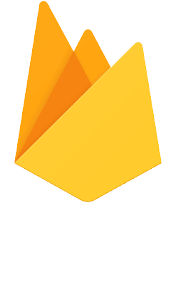
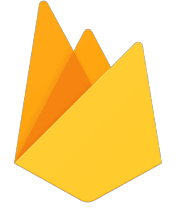
skills edited, project added

Changed region(s): [[0.0852, 0.0273, 0.9375, 0.9273], [0.2273, 0.0, 0.2841, 0.0273]]

diff --git a/src/Components/Skillicons/Skillicons.jsx b/src/Components/Skillicons/Skillicons.jsx
@@ -1,101 +1,116 @@
-import React from 'react'
+import React from "react";
 import html from "../../images/html.svg";
 import css from "../../images/css.svg";
 import js from "../../images/JS.svg";
 import boot from "../../images/bootstrap.svg";
 import rct from "../../images/react.svg";
-import mongo from "../../images/mongodb.svg";
-import npm from "../../images/npm.png";
+import mongo from "../../images/mong.png";
 import node from "../../images/node.jpg";
 import post from "../../images/postman.png";
 import sql from "../../images/sql.png";
-import github from "../../images/github.png"
-import redux from "../../images/redux.svg"
-import firebase from "../../images/firebase.png"
-import JWT from "../../images/JWT.png"
-import nxt from "../../images/nxt.png"
-import tailwind from "../../images/tailwindcss.png"
-import socket from "../../images/socketIO.png"
+import github from "../../images/github.png";
+import redux from "../../images/reduxy-removebg-preview.png";
+import firebase from "../../images/firebase-removebg-preview.png";
+import JWT from "../../images/JWT.png";
+import nxt from "../../images/nxt.png";
+import tailwind from "../../images/tailwindcss.png";
+import socket from "../../images/socketIO.png";
 
 function Skillicons() {
   return (
-    <div id="skills" className='col-lg-12'>
+    <div id="skills" className="col-lg-12">
       <h4 className="Tech">Technologies and Tools :</h4>
-      <div id='row1' >
-        <div className="gridicon">
-          <img src={html} alt="" style={{width:"75px"}}/>
-          <span>HTML</span>
+      <div id="row1" className="row">
+        <div className="col-lg-6 row6">
+          <div className="gridicon">
+            <img src={html} alt="" />
+            <span>HTML</span>
+          </div>
+          <div className="gridicon">
+            <img src={js} alt="" id="jsicon" />
+            <span>Java Script</span>
+          </div>
         </div>
-        <div className="gridicon">
-          <img src={js} alt="" id="jsicon" style={{width:"75px"}}/>
-          <span>Java Script</span>
+        <div className="col-lg-6 row6">
+          <div className="gridicon">
+            <img src={css} alt="" id="cssicon" />
+            <span>CSS</span>
+          </div>
+          <div className="gridicon">
+            <img src={boot} alt="" id="bootstrapicon" />
+            <span>BootStrap</span>
+          </div>
         </div>
-        <div className="gridicon">
-          <img src={css} alt="" id="cssicon" style={{width:"75px"}}/>
-          <span>CSS</span>
+
+        <div className="col-lg-6 row6">
+          <div className=" gridicon">
+            <img src={rct} alt="" />
+            <span>React</span>
+          </div>
+          <div className=" gridicon">
+            <img src={node} alt="" />
+            <span>Node Js</span>
+          </div>
         </div>
-        <div className="gridicon">
-          <img src={boot} alt="" id="bootstrapicon" style={{width:"75px"}}/>
-          <span>BootStrap</span>
+
+        <div className="col-lg-6 row6">
+          <div className=" gridicon" id="mongoDB" >
+            <img src={mongo} alt="" />
+            <span>MongoDB</span>
+          </div>
+
+          <div className="gridicon">
+            <img src={redux} alt="" />
+            <span>Redux</span>
+          </div>
         </div>
-     
-      
-        <div className=" gridicon">
-          <img src={rct} alt="" style={{width:"75px"}}/>
-          <span>React</span>
+
+        <div className="col-lg-6 row6">
+          <div className=" gridicon">
+            <img src={nxt} alt="" />
+            <span>Next JS</span>
+          </div>
+          <div className="gridicon">
+            <img src={tailwind} alt="" />
+            <span style={{ marginLeft: "10px" }}>Tailwind CSS</span>
+          </div>
         </div>
-        <div className=" gridicon">
-          <img src={node} alt="" style={{width:"75px"}}/>
-          <span>Node Js</span>
+
+        <div className="col-lg-6 row6">
+          <div className="gridicon">
+            <img src={JWT} alt="" />
+            <span>JWT</span>
+          </div>
+          <div className="gridicon">
+            <img src={github} alt="" />
+            <span>GitHub</span>
+          </div>
         </div>
-        <div className=" gridicon" id="mongoDB">
-          <img src={mongo} alt="" style={{width:"75px"}}/>
-          <span>Mongo DB</span>
+
+        <div className="col-lg-6 row6">
+          <div className=" gridicon">
+            <img src={post} alt="" />
+            <span>Postman</span>
+          </div>
+          <div className="gridicon">
+            <img src={firebase} alt="" />
+            <span>Firebase</span>
+          </div>
         </div>
-       
-        <div className="gridicon">
-          <img src={redux} alt="" style={{width:"75px"}}/>
-          <span>Redux</span>
+
+        <div className="col-lg-6 row6">
+          <div className="gridicon">
+            <img src={sql} alt="" />
+            <span>SQL</span>
+          </div>
+          <div className="gridicon">
+            <img src={socket} alt="" />
+            <span>Socket IO</span>
+          </div>
         </div>
-    
-        
-        <div className=" gridicon">
-          <img src={nxt} alt="" style={{width:"75px"}}/>
-          <span>Next JS</span>
-        </div>
-        <div className="gridicon">
-          <img src={tailwind} alt="" style={{width:"75px"}}  />
-          <span style={{marginLeft:"10px"}}>Tailwind CSS</span>
-        </div>
-        <div className="gridicon">
-          <img src={JWT} alt="" style={{width:"75px"}}/>
-          <span>JWT</span>
-        </div>
-        <div className="gridicon">
-          <img src={github} alt="" style={{width:"75px"}}/>
-          <span>GitHub</span>
-        </div>
-    
-        
-        <div className=" gridicon">
-          <img src={post} alt="" style={{width:"75px"}}/>
-          <span>Postman</span>
-        </div>
-        <div className="gridicon">
-          <img src={firebase} alt="" style={{width:"75px"}}  />
-          <span>Firebase</span>
-        </div>
-        <div className="gridicon">
-          <img src={sql} alt="" style={{width:"75px"}}/>
-          <span>SQL</span>
-        </div>
-        <div className="gridicon">
-          <img src={socket} alt="" style={{width:"75px"}}/>
-          <span>Socket IO</span>
-        </div>
-        </div>
+      </div>
     </div>
-  )
+  );
 }
 
-export default Skillicons
+export default Skillicons;

diff --git a/src/Components/Projectcard/Projectcard.jsx b/src/Components/Projectcard/Projectcard.jsx
@@ -4,6 +4,7 @@ import { FiGithub } from 'react-icons/fi';
 import { VscGithub } from 'react-icons/vsc';
 import myntra from "../../images/myntra.png"
 import youtube from "../../images/youtube.png"
+import tournament from "../../images/tournament.png"
 import chat from "../../images/chat.png"
 import catalog from "../../images/item.png"
 
@@ -57,6 +58,29 @@ function Projectcard() {
           <img className="project-img" src={youtube} alt="" />
         </div>
          
+        </div>
+      </div>
+      </div>
+
+
+
+      <div className="col-lg-12">
+      <div  className="card" >
+        
+        <div className="card-body">
+        <div className='card-d'>
+          <h2 className="card-title">Tournament System App</h2>
+          <p className="card-text">Users can Login and join their favorite tournament, cancel and edit their registration. Admin can create, edit and delete the tournaments.</p>
+          <p><span className='card-tech'>Technologies and libraries used </span> : React.js, Node.js, MongoDB, TailwindCSS, Redux Toolkit</p>
+          <div className='projectcard-icons'>
+          <a className="card-link" href="https://steady-shortbread-751776.netlify.app/" target="_blank"><BiLinkExternal size={"1.5em"} className="giticon"/>View Project</a>
+          <a className="card-link" href="https://github.com/ManivasagamSuresh/indiggFrontend" target="_blank"><FiGithub size={"1.5em"}className="giticon"/>Front-End</a>
+          <a className="card-link" href="https://github.com/ManivasagamSuresh/indiggBackend" target="_blank"><VscGithub size={"1.5em"} className="giticon"/>Back-End</a>
+          </div>
+          </div>
+          <div className='card-i'>
+          <img className="project-img" src={tournament} alt="" />
+        </div>
         </div>
       </div>
       </div>

diff --git a/src/Components/Skills/Skills.css b/src/Components/Skills/Skills.css
@@ -11,32 +11,33 @@
   margin: 20px 0px 0px 30px;
 }
 
-#row1 {
+
+
+.row6{
   display: flex;
-  flex-direction: row;
-  flex-wrap: wrap;
   align-items: center;
-  justify-content: flex-start;
+  justify-content: space-around
 }
 .gridicon {
-  margin: 50px 0px 25px;
-  
-  width: 270px;
+  margin: 40px 0px ;
+  flex: 1;
   transition: 1s;
-  display: inline;
   animation: icon1 1s linear 1;
-  display: flex;
-  flex-wrap: wrap;
-  align-items: center;
+}
+.gridicon img{
+  width: 75px;
+  height: fit-content;
 }
 
 @media screen and (max-width:700px) {
+ 
   .gridicon {
-    margin-bottom: 50px;
-    margin-top: 25px;
-    width: 150px;
+    margin: 25px 0;
+    width: fit-content;
     transition: 1s;
-    display: inline;
+    display: flex;
+    flex-direction: column;
+    align-items: center; 
     animation: icon1 1s linear 1;
     
   }
@@ -44,13 +45,11 @@
     margin-bottom: 2.5em;
     margin-left: 10px;
     margin-right: 2px;
+    width: 50px;
   }
 }
 
-.gridicon img {
-  margin-bottom: 2.5em;
-  margin-left: 10px;
-}
+
 .gridicon span {
   color: #c0c0c0;
   margin-left: 1em;

diff --git a/src/Components/Home/Home.css b/src/Components/Home/Home.css
@@ -10,6 +10,13 @@
       font-size: 50px;
       font-family:Arial, Helvetica, sans-serif;
   }
+
+  @media screen and (max-width:700px) {
+    #introname{
+      font-size: 40px;
+      font-family:Arial, Helvetica, sans-serif;
+  }
+  }
   #mani{
       color: #FFc40a;
       font-family:Arial, Helvetica, sans-serif;

diff --git a/src/App.css b/src/App.css
@@ -1,7 +1,14 @@
 .App {
   text-align: center;
 }
+.container{
 
+}
+@media screen and (max-width:700px) {
+  .container{
+    max-width: fit-content;
+  }
+}
 .App-logo {
   height: 40vmin;
   pointer-events: none;
